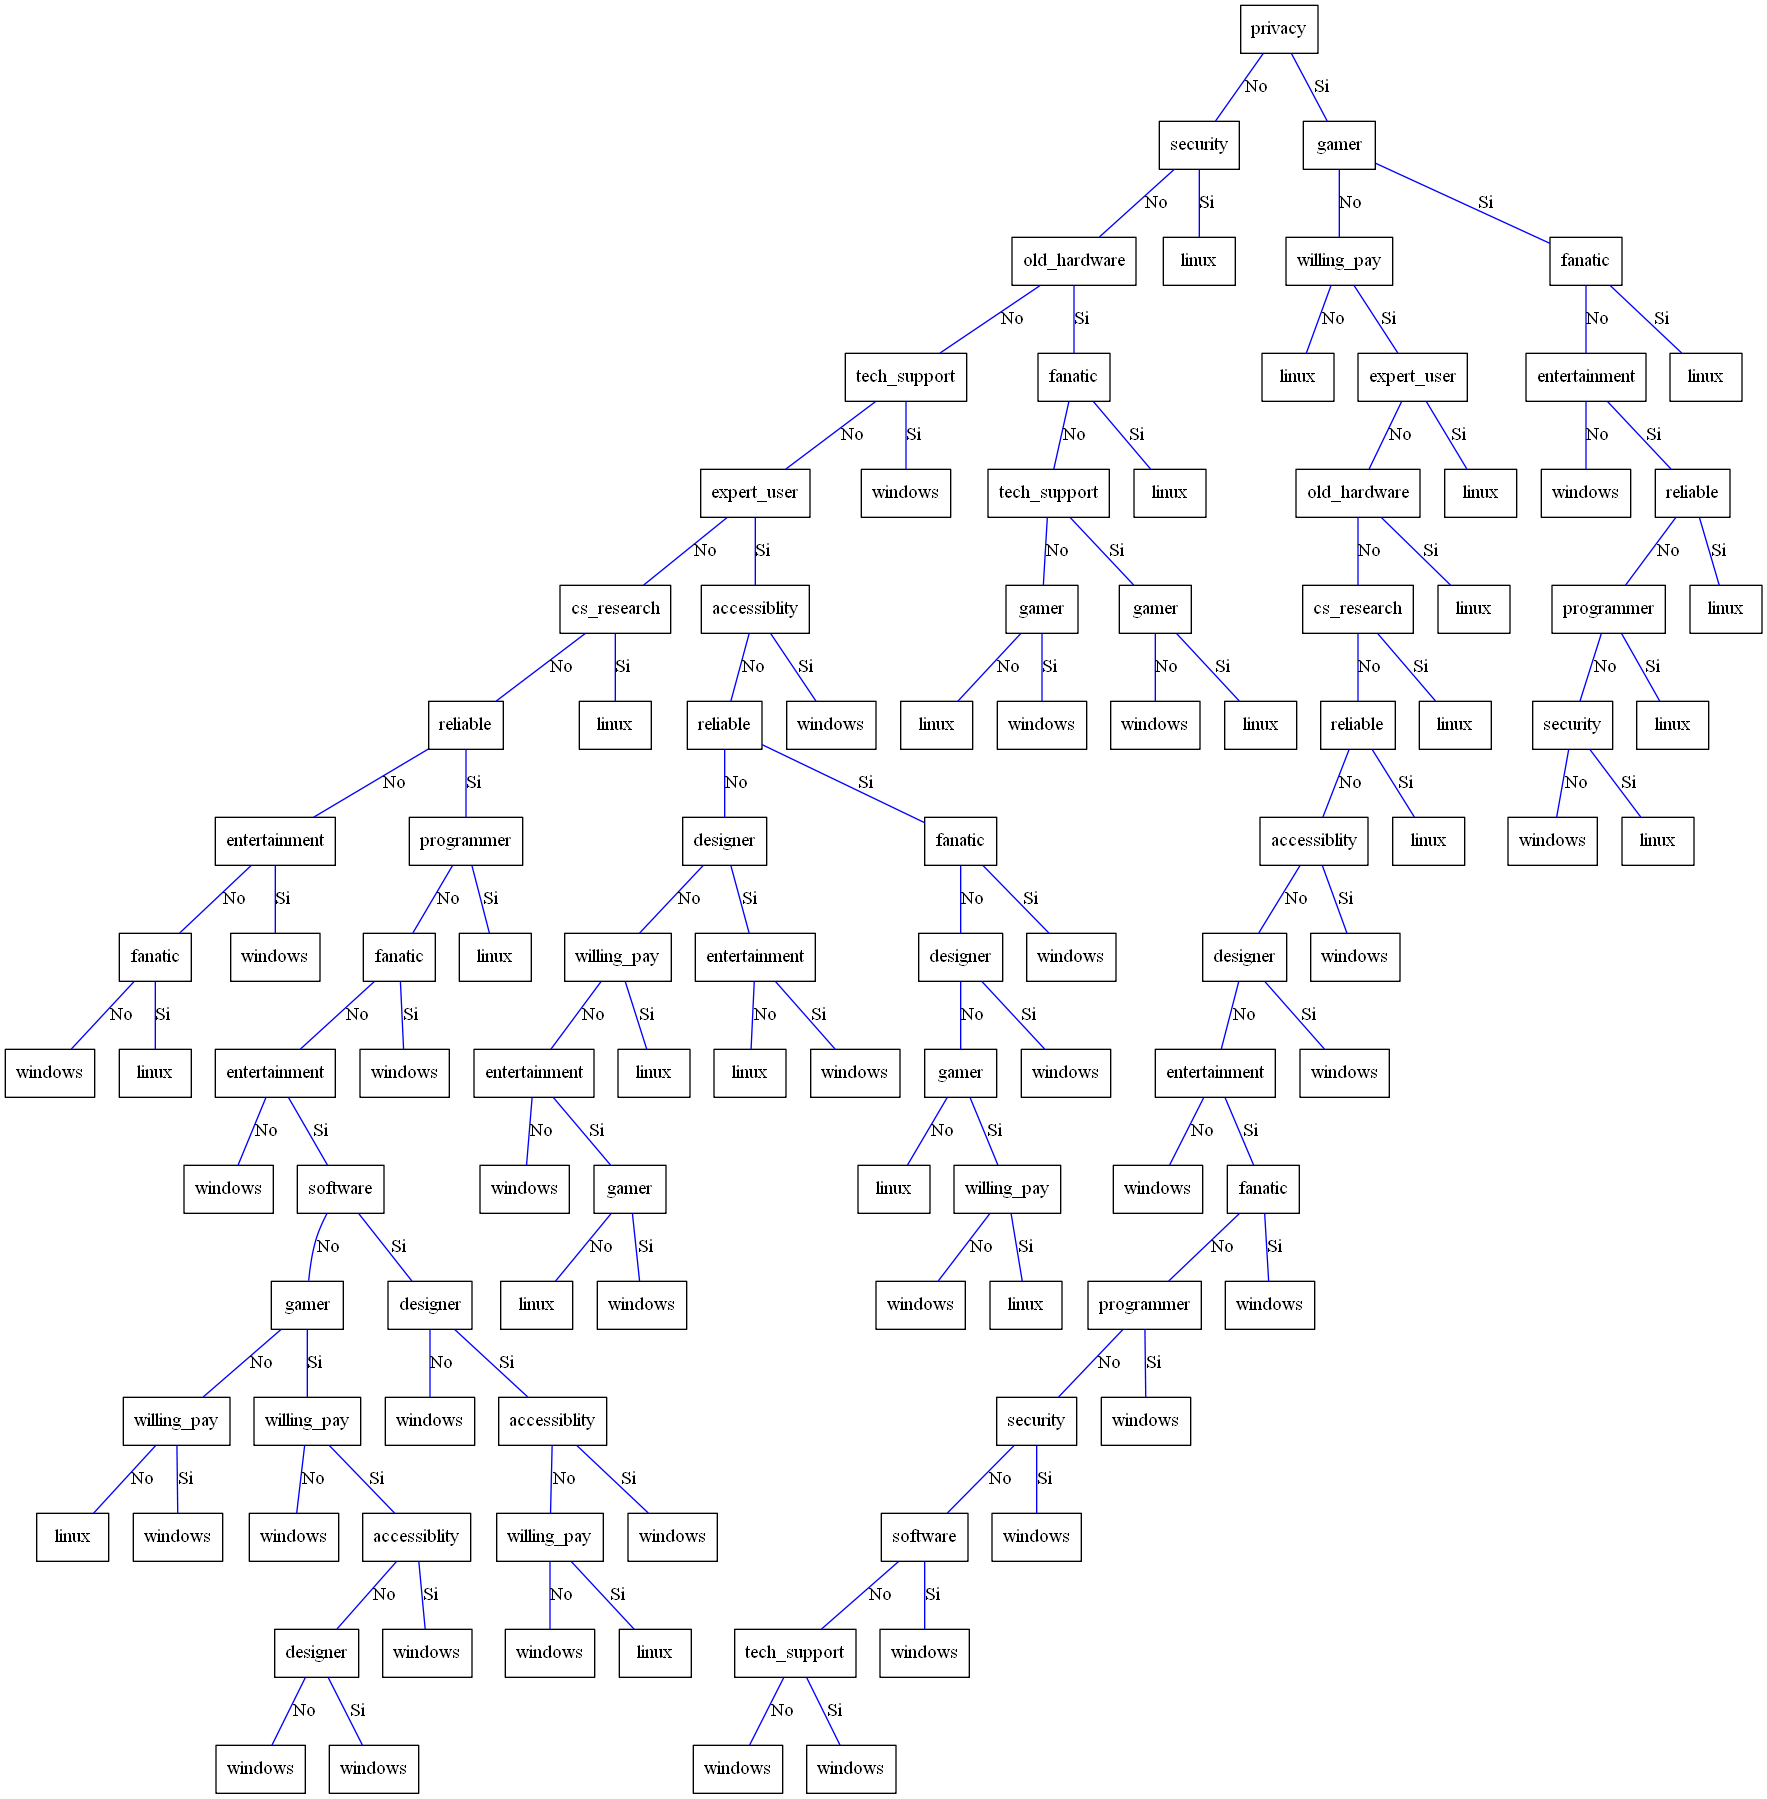
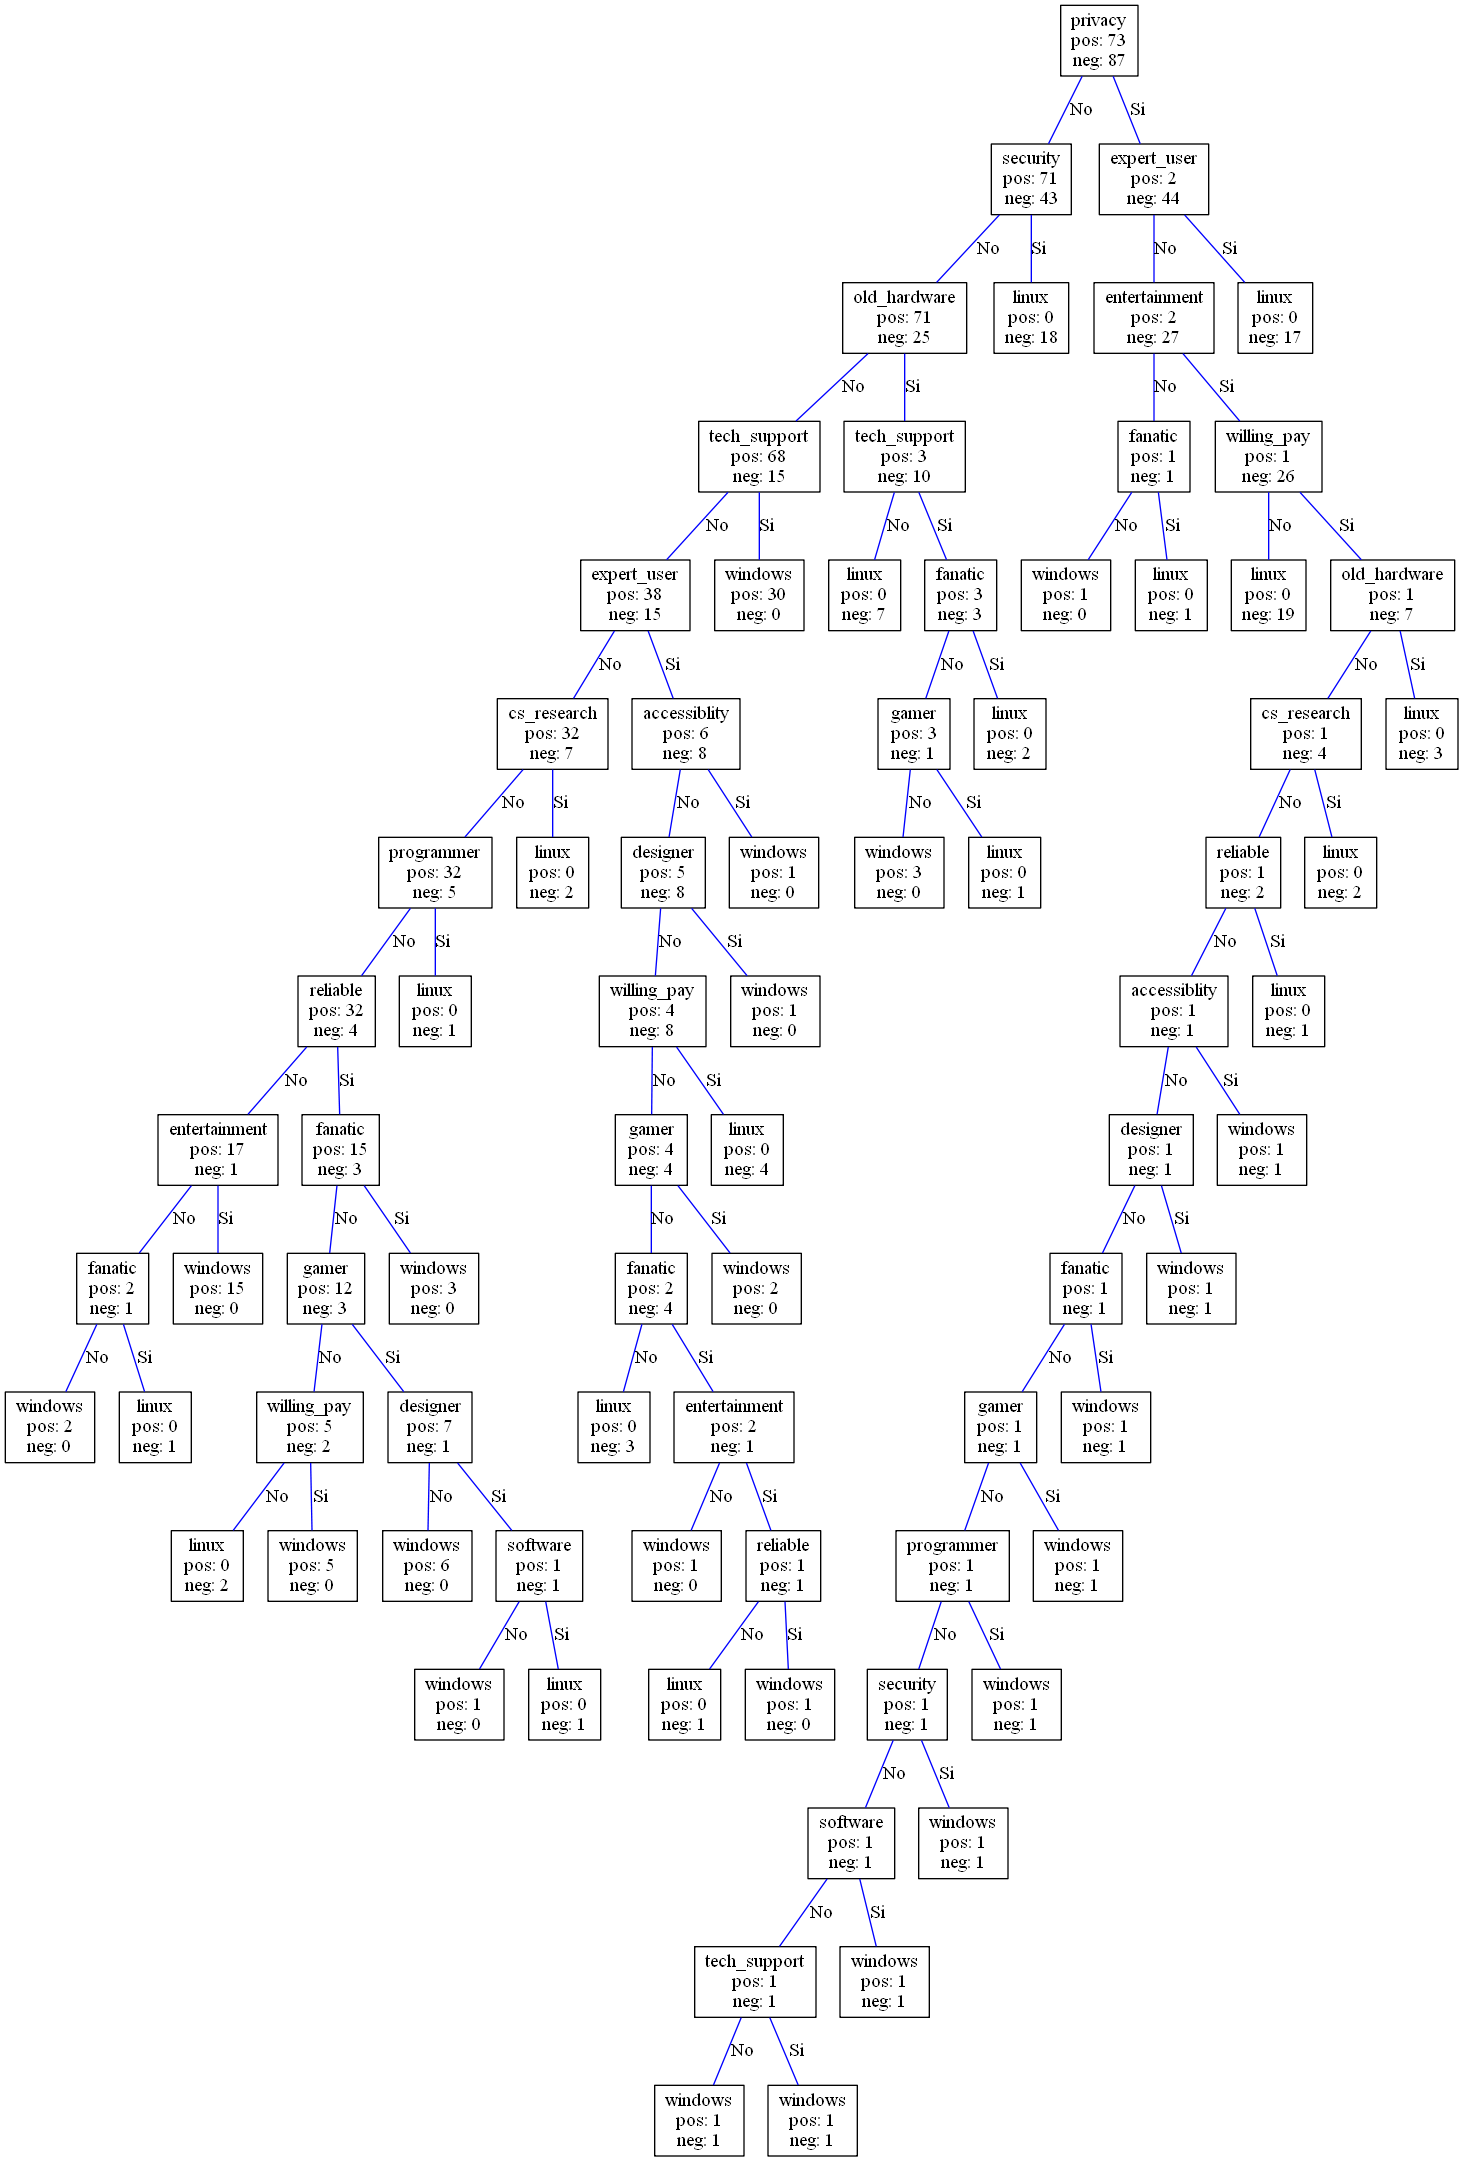
Cross-validation for unpruned tree implemented

Changed region(s): [[0.0, 0.0, 1.0, 1.0]]

diff --git a/CrossValidation.py b/CrossValidation.py
@@ -1,0 +1,96 @@
+from DecisionTree import DecisionTree
+from PrunedTree import PrunedTree
+import random as rand
+from math import sqrt
+
+class ModelCrossValidation:
+
+    def __init__(self):
+        pass
+
+    #Carries out a k-fold cross validation
+    def crossValidate(self, dataset, k):
+
+        #Gets and shuffles indices
+        indices = list(dataset.index)
+        rand.shuffle(indices)
+
+        #Corrects for dataset sizes with remainders for a given k
+        dataset_size = dataset.shape[0]
+        dataset_size = dataset_size - (dataset_size % k)
+        partition_size = dataset_size / k
+
+        model_results = self.kFoldValidation(dataset, k, partition_size, indices)
+
+        self.displayResults(model_results, k)
+
+    def kFoldValidation(self, dataset, k, partition_size, shuffled):
+        test_data_file = "test_data.csv"
+        tree_file = "unpruned.pickle"
+        model_results = []
+        # Runs k-fold cross validation
+        for i in range(k):
+            print(f"Running fold #{i + 1} of {k}...")
+            k_model_i = shuffled[int(partition_size) * i:int(partition_size) * (i + 1)]
+            exclude = dataset.index.isin(k_model_i)
+            dataset.loc[exclude].to_csv(test_data_file)
+            dt = DecisionTree(test_data_file=test_data_file, tree_target_file=tree_file)
+            conf_matrix, statistics = dt.trainModel(dataset.loc[~exclude], validate=True)
+            model_results.append([conf_matrix, statistics])
+        return model_results
+
+    # Displays statistical results of the k folds
+    def displayResults(self, model_results, k):
+
+        #Calculate averages and print individual values
+        averages = {'accuracy':0, 'precision':0, 'recall':0, 'f1':0}
+
+        print("{:<6} {:<15} {:<15} {:<15} {:<15}".format('K', 'Accuracy', 'Precision', 'Recall', 'F1-Score'))
+        print("-" * 66)
+        for i in range(k):
+            prec = model_results[i][1]['precision']
+            averages['precision'] += prec
+            acc = model_results[i][1]['accuracy']
+            averages['accuracy'] += acc
+            recall = model_results[i][1]['recall']
+            averages['recall'] += recall
+            f1 = model_results[i][1]['f1']
+            averages['f1'] += f1
+            print("{:<6} {:<15} {:<15} {:<15} {:<15}".format(
+                i,
+                round(acc, 4),
+                round(prec, 4),
+                round(recall, 4),
+                round(f1, 4))
+            )
+
+        averages['precision'] = averages['precision'] / k
+        averages['accuracy'] = averages['accuracy'] / k
+        averages['recall'] = averages['recall'] / k
+        averages['f1'] = averages['f1'] / k
+
+        print("-"*66)
+
+        print("{:<6} {:<15} {:<15} {:<15} {:<15}".format(
+            "AVG",
+            round(averages['precision'], 4),
+            round(averages['accuracy'], 4),
+            round(averages['recall'], 4),
+            round(averages['f1'], 4)
+        ))
+
+        # Calculates standard deviation
+        std = {'accuracy':0, 'precision':0, 'recall':0, 'f1':0}
+        for i in range(k):
+            std['accuracy'] += (model_results[i][1]['accuracy'] - averages['accuracy'])**2
+            std['precision'] += (model_results[i][1]['precision'] - averages['precision'])**2
+            std['recall'] += (model_results[i][1]['recall'] - averages['recall'])**2
+            std['f1'] += (model_results[i][1]['f1'] - averages['f1'])**2
+
+        print("{:<6} {:<15} {:<15} {:<15} {:<15}".format(
+            "STD",
+            round(sqrt(std['precision'] / (k-1)), 4),
+            round(sqrt(std['accuracy'] / (k-1)), 4),
+            round(sqrt(std['recall'] / (k-1)), 4),
+            round(sqrt(std['f1'] / (k-1)), 4)
+        ))

diff --git a/DecisionTree.py b/DecisionTree.py
@@ -1,21 +1,29 @@
 from math import log2 as log
 import numpy as np
 import pandas as pd
+from ModelTest import ModelTest
 from Node import Node
 from GraphTree import GraphTree
 
 
 class DecisionTree:
 
-    def __init__(self):
+    def __init__(self,
+                 tree_target_file='Unpruned_Tree.pickle',
+                 image_target_file='decisiontree.png',
+                 test_data_file="training_data.csv"
+                 ):
         # Empty dataset slot
         self.dataset = None
         self.dtree = None
         self.pos_class = None
         self.neg_class = None
+        self.tree_target_file = tree_target_file
+        self.image_target_file = image_target_file
+        self.test_data_file = test_data_file
 
     """BEGINNING OF MODEL TRAINING CODE SECTION"""
-    def trainModel(self, dataset):
+    def trainModel(self, dataset, validate=False):
         print("Beginning training on Dataset...")
         self.dataset = dataset
 
@@ -28,12 +36,20 @@ class DecisionTree:
         self.dtree = self.decisionTreeLearning(self.dataset.copy(), self.dataset.copy())
 
         # Saves the tree in a pickle file
-        pd.to_pickle(self.dtree, "Unpruned_Tree.pickle")
+        pd.to_pickle(self.dtree, self.tree_target_file)
 
         self.printTree(self.dtree, 0)
 
-        graph = GraphTree(self.dtree, 'decisiontree.png')
+        # Creates a visual representation of the Decision Tree
+        graph = GraphTree(self.dtree, self.image_target_file)
         graph.graphTree()
+
+        # Runs the statistics model validation
+        if validate:
+            test = ModelTest()
+            return test.testModel(self.tree_target_file, self.test_data_file)
+
+
 
     # Entropy Calculation based on p and n disjunct observations
     def crossEntropy(self, p, n):

diff --git a/ModelTest.py b/ModelTest.py
@@ -27,6 +27,8 @@ class ModelTest:
         basic_statistics = self.basicModelStatistics(confusion_matrix)
         self.plotModelStatistics(basic_statistics)
 
+        return confusion_matrix, basic_statistics
+
 
     # Runs a series of predictions based on a list of observations
     def runPrediction(self, test_data, model):
@@ -106,7 +108,7 @@ class ModelTest:
         conf_m.columns.name = "Actual"
         plt.figure(figsize=(10,7))
         sb.set(font_scale=1.4)
-        sb.heatmap(conf_m, cmap="Blues", annot=True, annot_kws={"size": 16}, fmt='d')
+        sb.heatmap(conf_m, cmap="Blues", annot=True, annot_kws={"size": 24}, fmt='d')
         plt.show()
 
     # Returns the calculations of basic model performance statistics
@@ -131,19 +133,22 @@ class ModelTest:
         # Print values in console
         for key, value in statistics.items():
             print(f"{key}-> {value}")
-        '''
-        labels = []
+
         data = []
         for key, value in statistics.items():
-            labels.append(key)
-            data.append([value])
+            data.append([key, round(value, 4)])
 
-        ax = plt.subplot(111, frame_on=False)
+        fig = plt.figure(dpi=80)
+        ax = fig.add_subplot(1, 1, 1)
+
         ax.xaxis.set_visible(False)
         ax.yaxis.set_visible(False)
 
         #ax.figure(2)
-        ax.table(cellText=data,rowLabels=labels )
+        table = ax.table(cellText=data,loc='center' )
+        table.set_fontsize(14)
+        table.scale(1,4)
+        ax.axis('off')
         #plt.show()
-        '''
+
     """ENDING OF MODEL VALIDATION CODE SECTION"""

diff --git a/GraphTree.py b/GraphTree.py
@@ -20,14 +20,14 @@ class GraphTree:
         parent_name = ''
         if not (tree.data in nx.get_node_attributes(self.G, 'label')):
             parent_name = tree.data
-            self.G.add_node(tree.data, label=tree.data)
+            self.G.add_node(tree.data, label=tree.data+'\n'+'pos: '+str(tree.statistics["p"])+'\n'+'neg: '+str(tree.statistics["n"]))
         else:
             contador = 0
             for node in nx.get_node_attributes(self.G, 'label'):
                 if tree.data in node:
                     contador += 1
             parent_name = f"{tree.data}{contador}"
-            self.G.add_node(parent_name, label=tree.data)
+            self.G.add_node(parent_name, label=tree.data+'\n'+'pos: '+str(tree.statistics["p"])+'\n'+'neg: '+str(tree.statistics["n"]))
         if parent != None:
             contador = 0
             for node in nx.get_node_attributes(self.G, 'label'):

diff --git a/main.py b/main.py
@@ -1,12 +1,14 @@
 import pandas as pd
+from CrossValidation import ModelCrossValidation
 from DecisionTree import DecisionTree
 from PrunedTree import PrunedTree
 from ModelTest import ModelTest
 
 
 def main():
-    df = pd.read_csv('training_data.csv')
 
+    df = pd.read_csv('training_data.csv')
+    '''
     dt = DecisionTree()
     dt.trainModel(df)
 
@@ -18,6 +20,12 @@ def main():
     pt.pruneTree("Unpruned_Tree.pickle")
     test = ModelTest()
     test.testModel("prunedTree.pickle", "training_data.csv")
+    '''
+    cv = ModelCrossValidation()
+    cv.crossValidate(df, 10)
+    #filt = df.index.isin([i for i in range(3,20)])
+    #print(df.loc[~filt])
+
 
 
 if __name__ == "__main__":

diff --git a/PrunedTree.py b/PrunedTree.py
@@ -1,4 +1,3 @@
-from Node import Node
 import pandas as pd
 from scipy import stats
 from GraphTree import GraphTree
@@ -8,6 +7,8 @@ class PrunedTree:
     def __init__(self):
         self.dtree = None
         self.orginal_tree = None
+        self.tree_target_file = None
+        self.image_target_file = None
 
     '''BEGINNING OF TREE PRUNING CODE SECTION'''
     # Pruns the original tree
